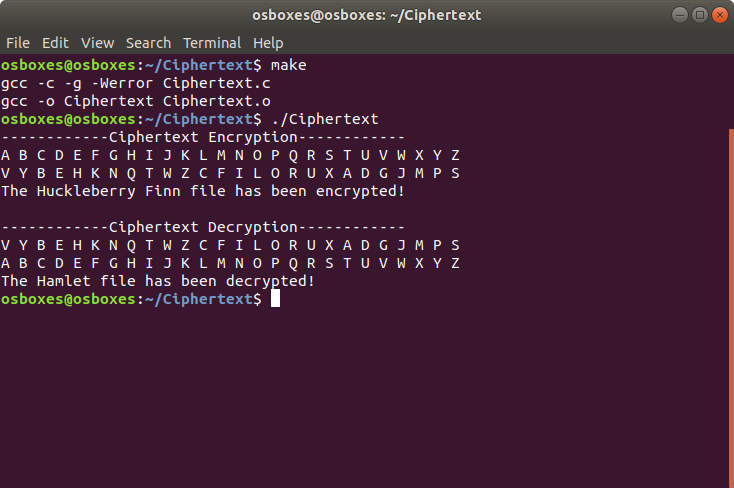
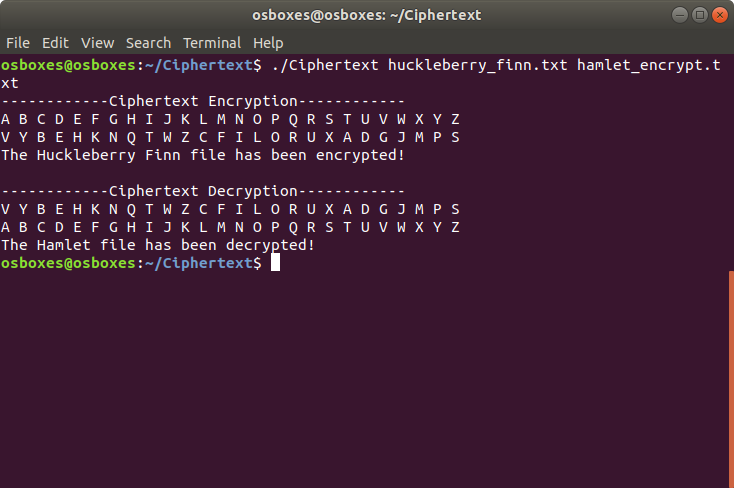
Modified program and image

Changed region(s): [[0.0, 0.1537, 0.6294, 0.6455], [0.3597, 0.123, 0.9891, 0.1537], [0.9891, 0.2459, 1.0, 0.5533]]

diff --git a/Ciphertext.c b/Ciphertext.c
@@ -8,8 +8,15 @@ void printAlphabet(char alphabet[]);
 void encryptMessage(char buffer[], int size);
 void decryptMessage(char description[], int size);
 
-int main()
+int main(int argc char* argv[])
 {
+	if(argc != 3)
+	{
+		puts("ERROR: Incorrect number of arguments!");
+		puts("./Ciphertext [original_file][encrypted_file]");
+		return -1;
+	}
+
 	int size;
 	char read;
 	char alphabet[25];
@@ -19,12 +26,12 @@ int main()
 	FILE *in_file_decryption;
 	FILE *out_file_encryption;
 	FILE *out_file_decryption;
-	in_file_encryption = fopen("huckleberry_finn.txt", "r");
+	in_file_encryption = fopen(argv[1], "r");
 
 	if(in_file_encryption == NULL)
 	{
 		puts("ERROR: File encryption cannot be opened!");
-		return -1;
+		return -2;
 	}
 	fseek(in_file_encryption, 0, SEEK_END);
 	size = ftell(in_file_encryption);
@@ -49,7 +56,7 @@ int main()
 	if(out_file_encryption == NULL)
 	{
 		puts("ERROR: Cannot write to the encrypted file!");
-		return -2;
+		return -3;
 	}
 
 	encryptMessage(buffer, size);
@@ -61,12 +68,12 @@ int main()
 	fclose(out_file_encryption);
 	puts("The Huckleberry Finn file has been encrypted!");
 
-	in_file_decryption = fopen("hamlet_encrypt.txt", "r");
+	in_file_decryption = fopen(argv[2], "r");
 
 	if(in_file_decryption == NULL)
         {
                 puts("ERROR: File decryption cannot be opened!");
-                return -3;
+                return -4;
         }
         fseek(in_file_decryption, 0, SEEK_END);
         size = ftell(in_file_decryption);
@@ -90,7 +97,7 @@ int main()
         if(out_file_decryption == NULL)
         {
                 puts("ERROR: Cannot write to the decrypted file!");
-                return -4;
+                return -5;
         }
 
         decryptMessage(description, size);
